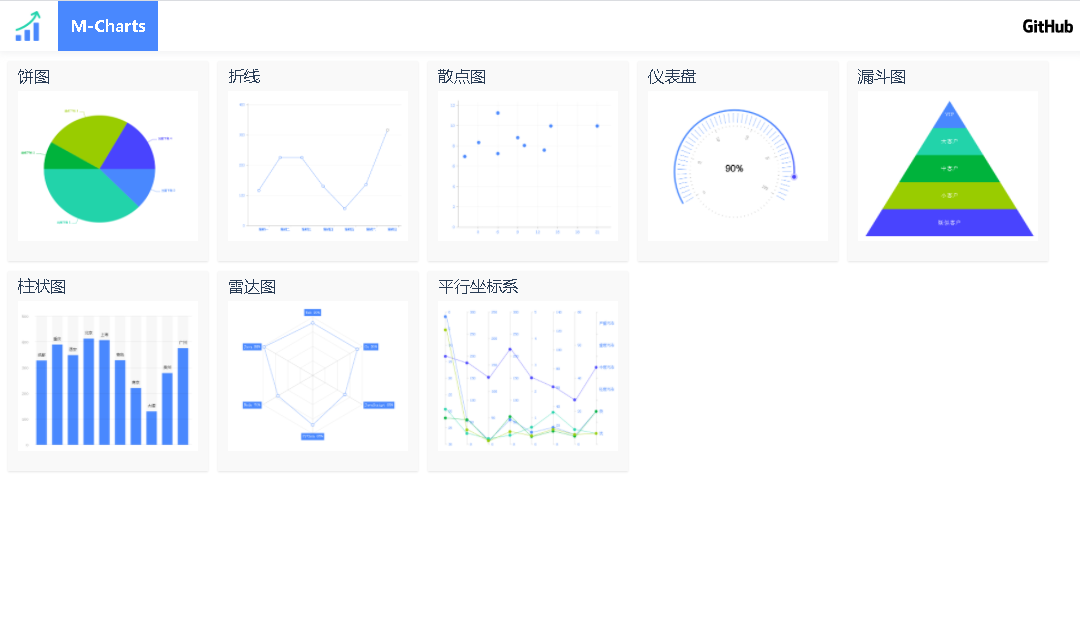
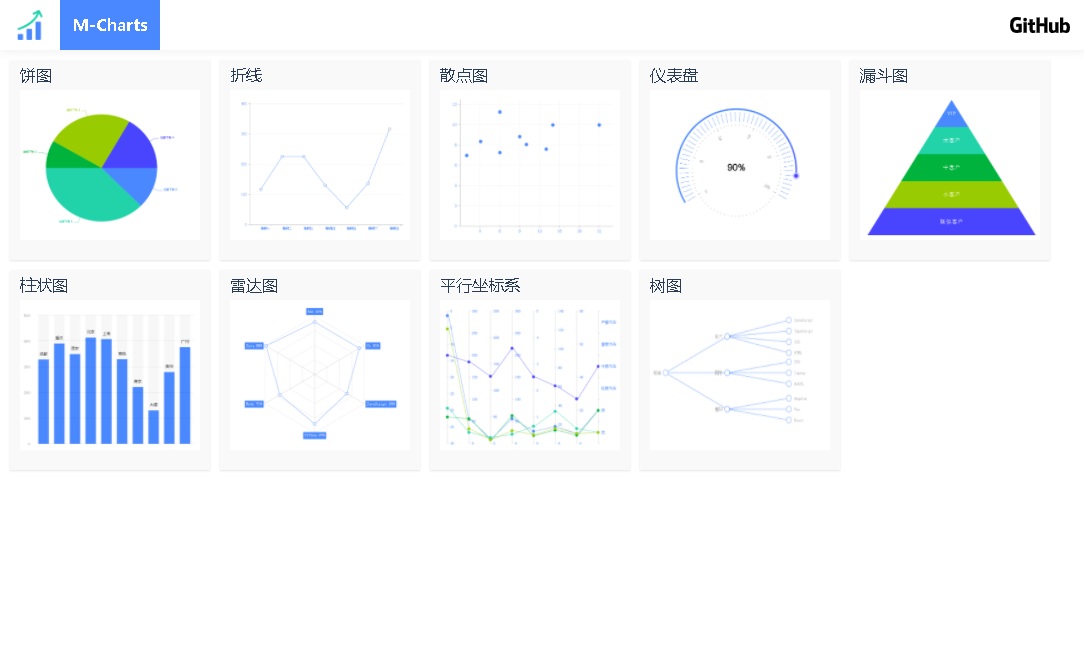
update

diff --git a/src/charts/shape/tree/tree.tsx b/src/charts/shape/tree/tree.tsx
@@ -1,0 +1,187 @@
+
+import * as React from 'react';
+import { init, getEventCoordinates } from '../../provider/canvas';
+import "./tree.scss";
+
+class TreeComponent extends React.Component {
+    canvas:any;
+    ctx:any;
+    clientRect:any;
+    config: any;
+    data:any[];
+    constructor(props:any) {
+        super(props);
+    }
+
+    componentDidMount() {
+        this.initData();
+        this.initCanvas();
+        this.drawInit();
+    }
+
+    initData() {
+
+        this.config = {
+            startX:50,
+            startY:250,
+            w:200, //层级宽度
+            r:8, //半径
+            secondChildLen:3,
+            secondChildSpaceing: 100,
+            lastChildLen: 9,
+            lastSpacing:30,
+        }
+
+        this.data = [
+            {
+                name:"前端",
+                child: [
+                    {
+                        name:"技术",
+                        child:[
+                            {
+                                name:"JavaScript",
+                                child:null,
+                            },
+                            {
+                                name:"TypeScript",
+                                child:null,
+                            },
+                            {
+                                name:"CSS",
+                                child:null
+                            },
+                            {
+                                name:"HTML",
+                                child:null
+                            }
+                        ]
+                    }, 
+                    {
+                        name:"图像",
+                        child:[
+                            {
+                                name:"SVG",
+                                child:null,
+                            },
+                            {
+                                name:"Canvas",
+                                child:null
+                            },
+                            {
+                                name:"WebGL",
+                                child:null
+                            }
+                        ]
+                    },
+                    {
+                        name:"框架",
+                        child:[
+                            {
+                                name:"Angular",
+                                child:null,
+                            },
+                            {
+                                name:"Vue",
+                                child:null
+                            },
+                            {
+                                name:"React",
+                                child:null
+                            }
+                        ]
+                    }
+                ]
+            }
+        ]
+    }
+
+    componentWillUnmount() {
+ 
+    }
+
+    initCanvas() {
+        this.canvas = document.getElementById('canvas');
+        if(!this.canvas) return;
+        init(this.canvas);
+        this.ctx = this.canvas.getContext('2d');
+        this.clientRect = this.canvas.getBoundingClientRect();
+    }
+
+    drawInit() {
+        this.ctx.strokeStyle = '#4988FE';
+        let webData = this.data[0];
+        this.drawText(webData.name, this.config.startX, this.config.startY);
+        this.drawPoints(webData, this.config.startX, this.config.startY , this.config.secondChildSpaceing);   
+    }
+
+    // 绘制节点
+    drawPoints(webData:any, x:number, centerY:number, spaceing:number, reverseTextBool?:boolean) {
+        let list =webData && webData['child'];
+        if(!Array.isArray(list)) return;
+        let len = list.length;
+        let spaceConut = (len % 2) 
+        let beginY = spaceConut === 1 ? (len -1) / 2 * spaceing:(  len / 2  - 0.5 ) * spaceing;
+        for(let i=0;i<len;i++) {
+     
+            let item = list[i];
+            let _x = x + this.config.w;
+            let _y = (centerY - beginY) + spaceing * i;
+            this.drawLine(x, centerY, _x, _y, spaceing);
+            this.drawPoint(_x, _y);
+            this.drawText(item.name,_x, _y, reverseTextBool);
+
+            // 绘制上级节点
+            if(i === len -1) {
+                this.drawPoint(x, centerY);
+            }
+            if(Array.isArray(item.child)) {
+                this.drawPoints(item, _x, _y, this.config.lastSpacing, true);   
+            }
+        }
+    }
+
+    // 绘制点
+    drawPoint(_x:number, _y:number) {
+        this.ctx.beginPath();
+        this.ctx.linewidth = 2;
+        this.ctx.fillStyle = "#fff";
+        this.ctx.arc(_x,  _y, this.config.r, 0, Math.PI * 2);
+        this.ctx.fill();
+        this.ctx.stroke();
+    }
+
+    // 绘制连线
+    drawLine(sX:number, sY:number, eX:number, eY:number,space:number) {
+        this.ctx.beginPath();
+        this.ctx.linewidth = 1;
+        this.ctx.moveTo(sX, sY);
+        this.ctx.quadraticCurveTo(sX, sY, eX, eY);
+        this.ctx.stroke();
+    }
+
+    // 绘制文本
+    drawText(val: string, x:number, y:number, reverseTextBool?:boolean) {
+        this.ctx.beginPath();
+        this.ctx.font = "12px serif";    
+        this.ctx.fillStyle = '#aaa';
+        this.ctx.textBaseline = 'middle';
+        if(reverseTextBool) {
+            this.ctx.textAlign = 'left';
+            this.ctx.fillText(val, x + 18, y);
+        }else {
+            this.ctx.textAlign = 'right';
+            this.ctx.fillText(val, x - 15, y);
+        }
+        this.ctx.stroke();
+    }
+
+
+
+    render() {
+        return  <div className="charts parallel">
+                <canvas id="canvas" width="600" height="500"></canvas>
+            </div>
+    }
+}
+export default TreeComponent;

diff --git a/src/pages/charts-list/charts-list.tsx b/src/pages/charts-list/charts-list.tsx
@@ -10,6 +10,7 @@ let imgFunnel = require('./../../assets/imgs/shape/funnel.png');
 let imgBar = require('./../../assets/imgs/shape/bar.png');
 let imgRadar = require('./../../assets/imgs/shape/radar.png');
 let imgParallel = require('./../../assets/imgs/shape/parallel.png');
+let imgTree = require('./../../assets/imgs/shape/tree.png');
 
 class ChartsList extends React.Component<{}, object>  {
     charts:any[] = [
@@ -52,7 +53,13 @@ class ChartsList extends React.Component<{}, object>  {
             name:"平行坐标系",
             type:'parallel',
             thumbnail: imgParallel
-        }
+        },    
+        {
+            name:"树图",
+            type:'tree',
+            thumbnail: imgTree
+        },
+
         
     ]
     render() {

diff --git a/src/pages/charts-view/charts-view.tsx b/src/pages/charts-view/charts-view.tsx
@@ -12,7 +12,8 @@ import {
     FunnelComponent,
     BarComponent,
     RadarComponent,
-    ParallelComponent
+    ParallelComponent,
+    TreeComponent
 } from './../../charts/shape/index';
 
 interface MProps {}
@@ -54,6 +55,9 @@ class ChartsView extends React.Component<ChartsProps, MState> {
                 break;    
             case 'parallel':
                 chartComp = <ParallelComponent/> 
+                break;
+            case 'tree':
+                chartComp = <TreeComponent/> 
                 break;
             default:
                 chartComp = <NoMatch/>

diff --git a/src/charts/shape/index.js b/src/charts/shape/index.js
@@ -6,6 +6,7 @@ import FunnelComponent from './funnel/funnel';
 import BarComponent from './bar/bar';
 import RadarComponent from './radar/radar';
 import ParallelComponent from './parallel/parallel';
+import TreeComponent from './tree/tree';
 
 export { 
     PieComponent, // 饼图
@@ -15,5 +16,6 @@ export {
     FunnelComponent, // 漏斗图
     BarComponent, // 柱状图
     RadarComponent, // 雷达图
-    ParallelComponent //
+    ParallelComponent, // 平行坐标系
+    TreeComponent // 树图
 }

diff --git a/src/components/github/github.scss b/src/components/github/github.scss
@@ -3,7 +3,8 @@
     position: absolute;
     right: 10px;
     img {
-        width: 50px;
-        height: 30px;
+        width: 60px;
+        height: 50px;
+        padding:0 !important;
     }
 }

diff --git a/src/charts/shape/parallel/parallel.scss b/src/charts/shape/parallel/parallel.scss
@@ -1,3 +1,3 @@
 .parallel canvas {
-    background: beige;
+    // background: beige;
 }
